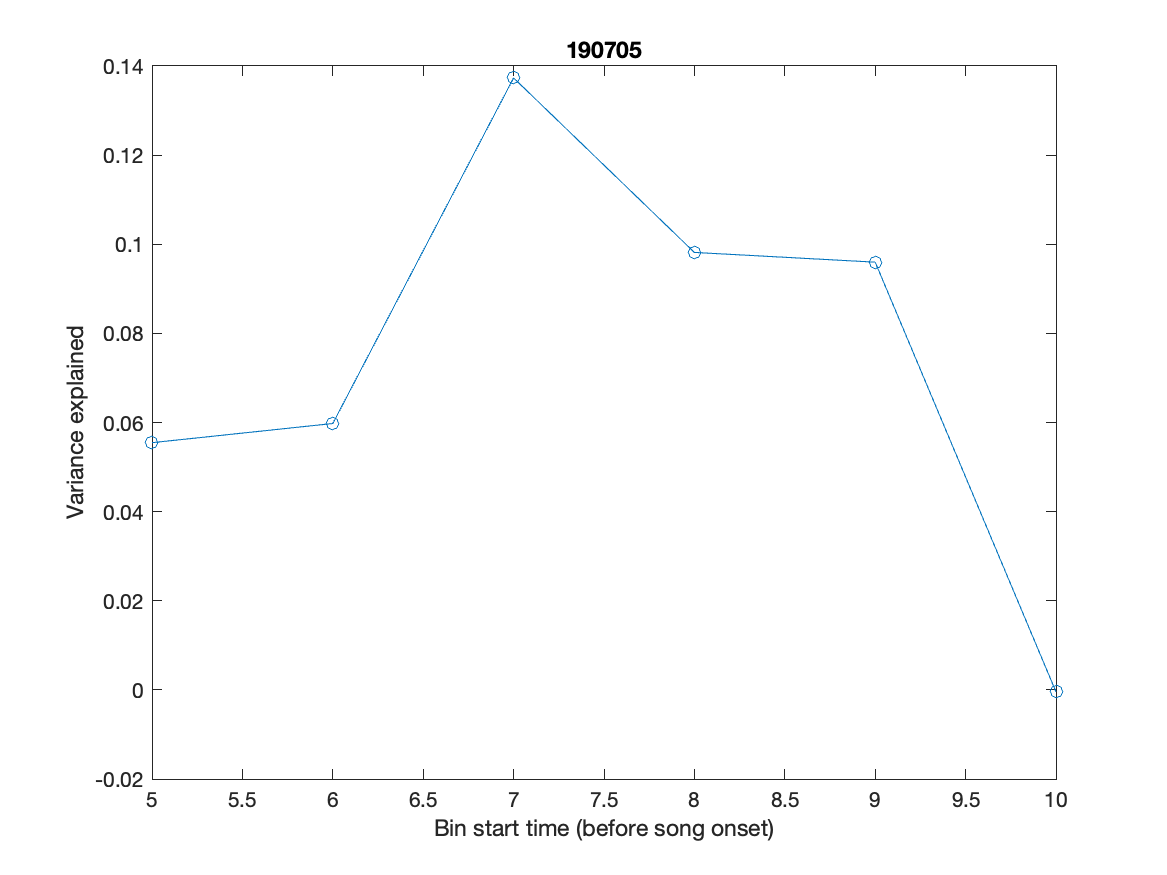
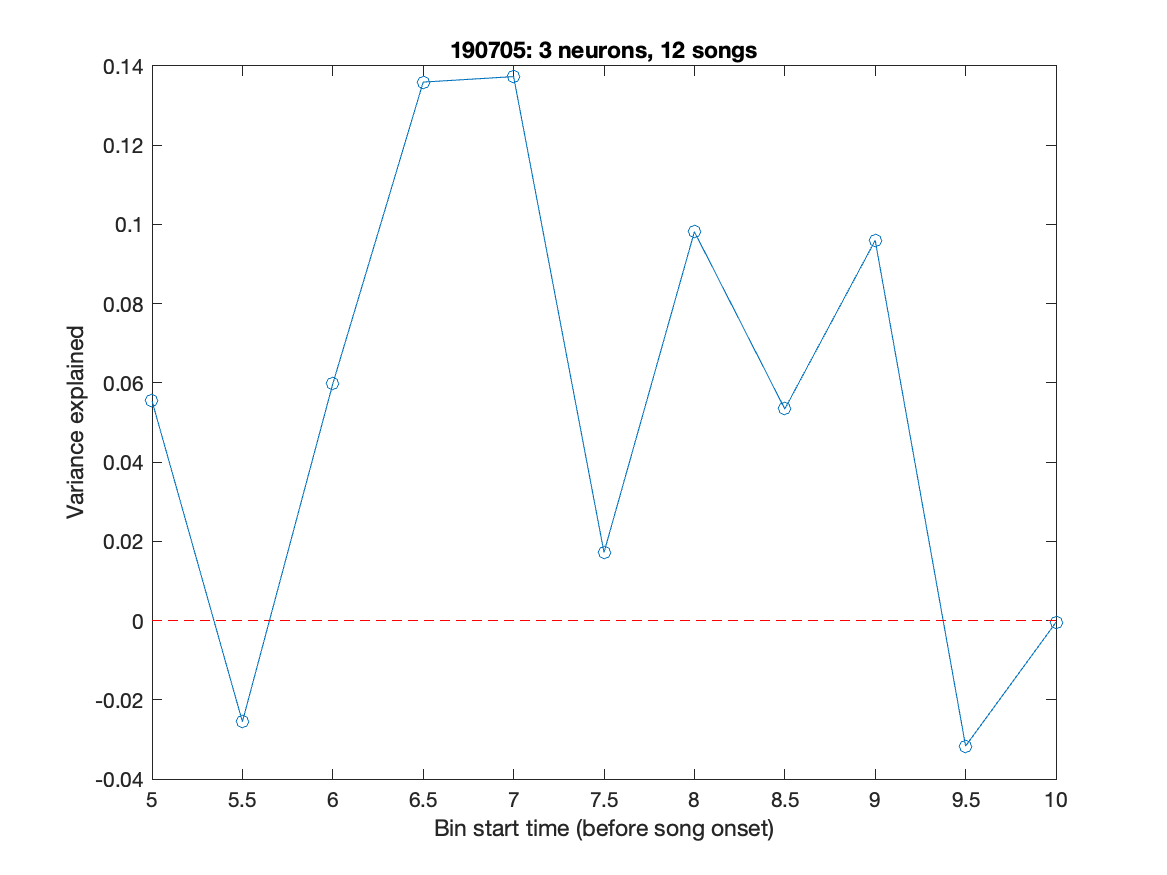
crossvalid err pred linear

diff --git a/song_length_prediction/song_lenpred_linear.m b/song_length_prediction/song_lenpred_linear.m
@@ -5,6 +5,7 @@ mouse_dat = ["190516","190521","190523","NA","NA","NA";
              "190705","190708","190709","190711","190716","190724";
              "191217","191223","NA","NA","NA","NA";
              "200917","200919","NA","NA","NA","NA"];
+n_mice = 4; % how many mice to process
 
 % file names
 
@@ -16,7 +17,7 @@ song_pred_neu_file = "SongPredNeurons.mat";
 
 bin_start = 10; % 10s before the song onset
 bin_duration = 5;
-bin_increment = 1;
+bin_increment = 0.5;
 
 lowest_bin_start = bin_duration;
 num_diff_bins = (bin_start - bin_duration)/bin_increment + 1;
@@ -25,7 +26,7 @@ bin_st_vals = linspace(bin_start,lowest_bin_start,num_diff_bins);
 
 % looping over all mice to be processed
 
-for m = 1:2 %1:n_mice
+for m = 1:n_mice
     m_dat = mouse_dat(m,:);
     m_dat = m_dat(m_dat~="NA"); % removing dummy NA entries
 
@@ -53,6 +54,7 @@ for m = 1:2 %1:n_mice
 
         song_durs = syll_times(:,2) - syll_times(:,1);
         songlen_var = var(song_durs);
+        n_songs = length(song_durs);
 
         % loading the cluster output file
 
@@ -84,7 +86,7 @@ for m = 1:2 %1:n_mice
 
         fig_path = data_f + m_dat(sess) + "/cverr_var_linear.png";
         visualize_cverr_var_linear(bin_st_vals, var_expl, ...
-                                    fig_path, m_dat(sess));
+                                    fig_path, m_dat(sess), n_neurons, n_songs);
 
     end
 end

diff --git a/song_length_prediction/visualize_cverr_var_linear.m b/song_length_prediction/visualize_cverr_var_linear.m
@@ -1,13 +1,20 @@
 function visualize_cverr_var_linear(bin_st_vec, var_expl_vec, ...
-                                    f_path, f_title)
+                                    f_path, f_title, num_neus, num_songs)
 
     fig = figure;
 
     plot(bin_st_vec,var_expl_vec,'-o')
 
+    hold on
+    x = linspace(5,10);
+    y = zeros(size(x));
+    line(x,y,'Color','red','LineStyle','--')
+    hold off
+
     xlabel('Bin start time (before song onset)');
     ylabel('Variance explained');
-    title(f_title);
+    title(f_title + ": " + string(num_neus) + " neurons, " + ...
+        string(num_songs) + " songs");
 
     saveas(fig, f_path)
     close(fig);

diff --git a/song_length_prediction/crossvalid_pred_linear.m b/song_length_prediction/crossvalid_pred_linear.m
@@ -31,6 +31,7 @@ function f = crossvalid_pred_linear(song_intvs, clusts_var, ...
         
     end
 
+    disp(cv_pred_err)
     f = mean(cv_pred_err);
 
 end
